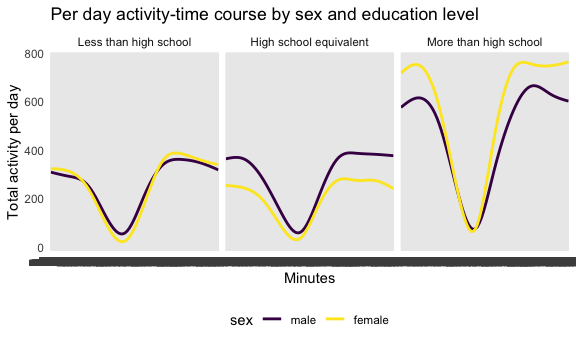
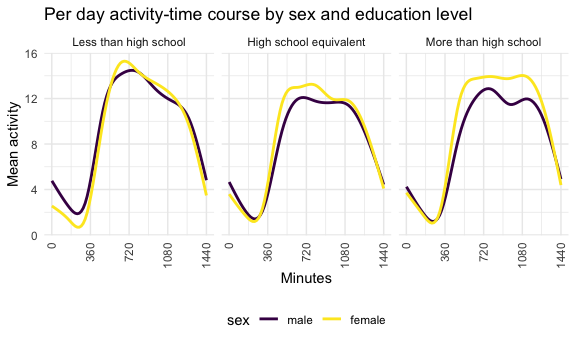
Problem 3 - 24 hour activity plot

diff --git a/P8105_HW3_msp2210.md b/P8105_HW3_msp2210.md
@@ -553,7 +553,11 @@ nhanes_df = nhanes_df %>%
     cols = starts_with("min"),
     names_to = "minutes",
     values_to = "mims_value"
-  ) 
+  ) %>% 
+  mutate(
+  minutes = str_remove(minutes, "min") %>% 
+  as.numeric(minutes)
+  )
 
 nhanes_df %>% 
   group_by(seqn, age, sex, education) %>% 
@@ -603,15 +607,19 @@ for each education level and use color to indicate sex.**
 nhanes_df %>% 
   group_by(minutes, sex, education) %>% 
   summarize(
-    total_activity = sum(mims_value)
+    mean_activity = mean(mims_value)
   ) %>% 
-  ggplot(aes(x = minutes, y = total_activity, color = sex)) +
+  ggplot(aes(x = minutes, y = mean_activity, color = sex)) +
   geom_smooth(aes(group = sex), se = FALSE) +
   facet_grid(. ~ education) +
+  scale_x_continuous(
+    breaks = seq(0, 1440, by = 360)
+  ) +
+  theme(axis.text.x = element_text(angle = 90, hjust = 1, vjust = 0.5)) +
   labs(
     title = "Per day activity-time course by sex and education level",
     x = "Minutes",
-    y = "Total activity per day"
+    y = "Mean activity"
   )
 ```
 
@@ -620,3 +628,12 @@ nhanes_df %>%
     ## `geom_smooth()` using method = 'gam' and formula = 'y ~ s(x, bs = "cs")'
 
 <img src="P8105_HW3_msp2210_files/figure-gfm/24-hr-activity-1.png" width="90%" />
+
+This plot depicts the mean activity per minute against minute to show
+the per day activity-time course, stratified by educational level and
+divided by gender. For the most part, the mean activities/minute for men
+and women both majorly overlap for all three educational categories,
+with women having slightly increased mean activity throughout. When
+comparing educational levels, those in the `less than high school`
+category had greater overall mean activity/minute than those in the
+other two categories.
